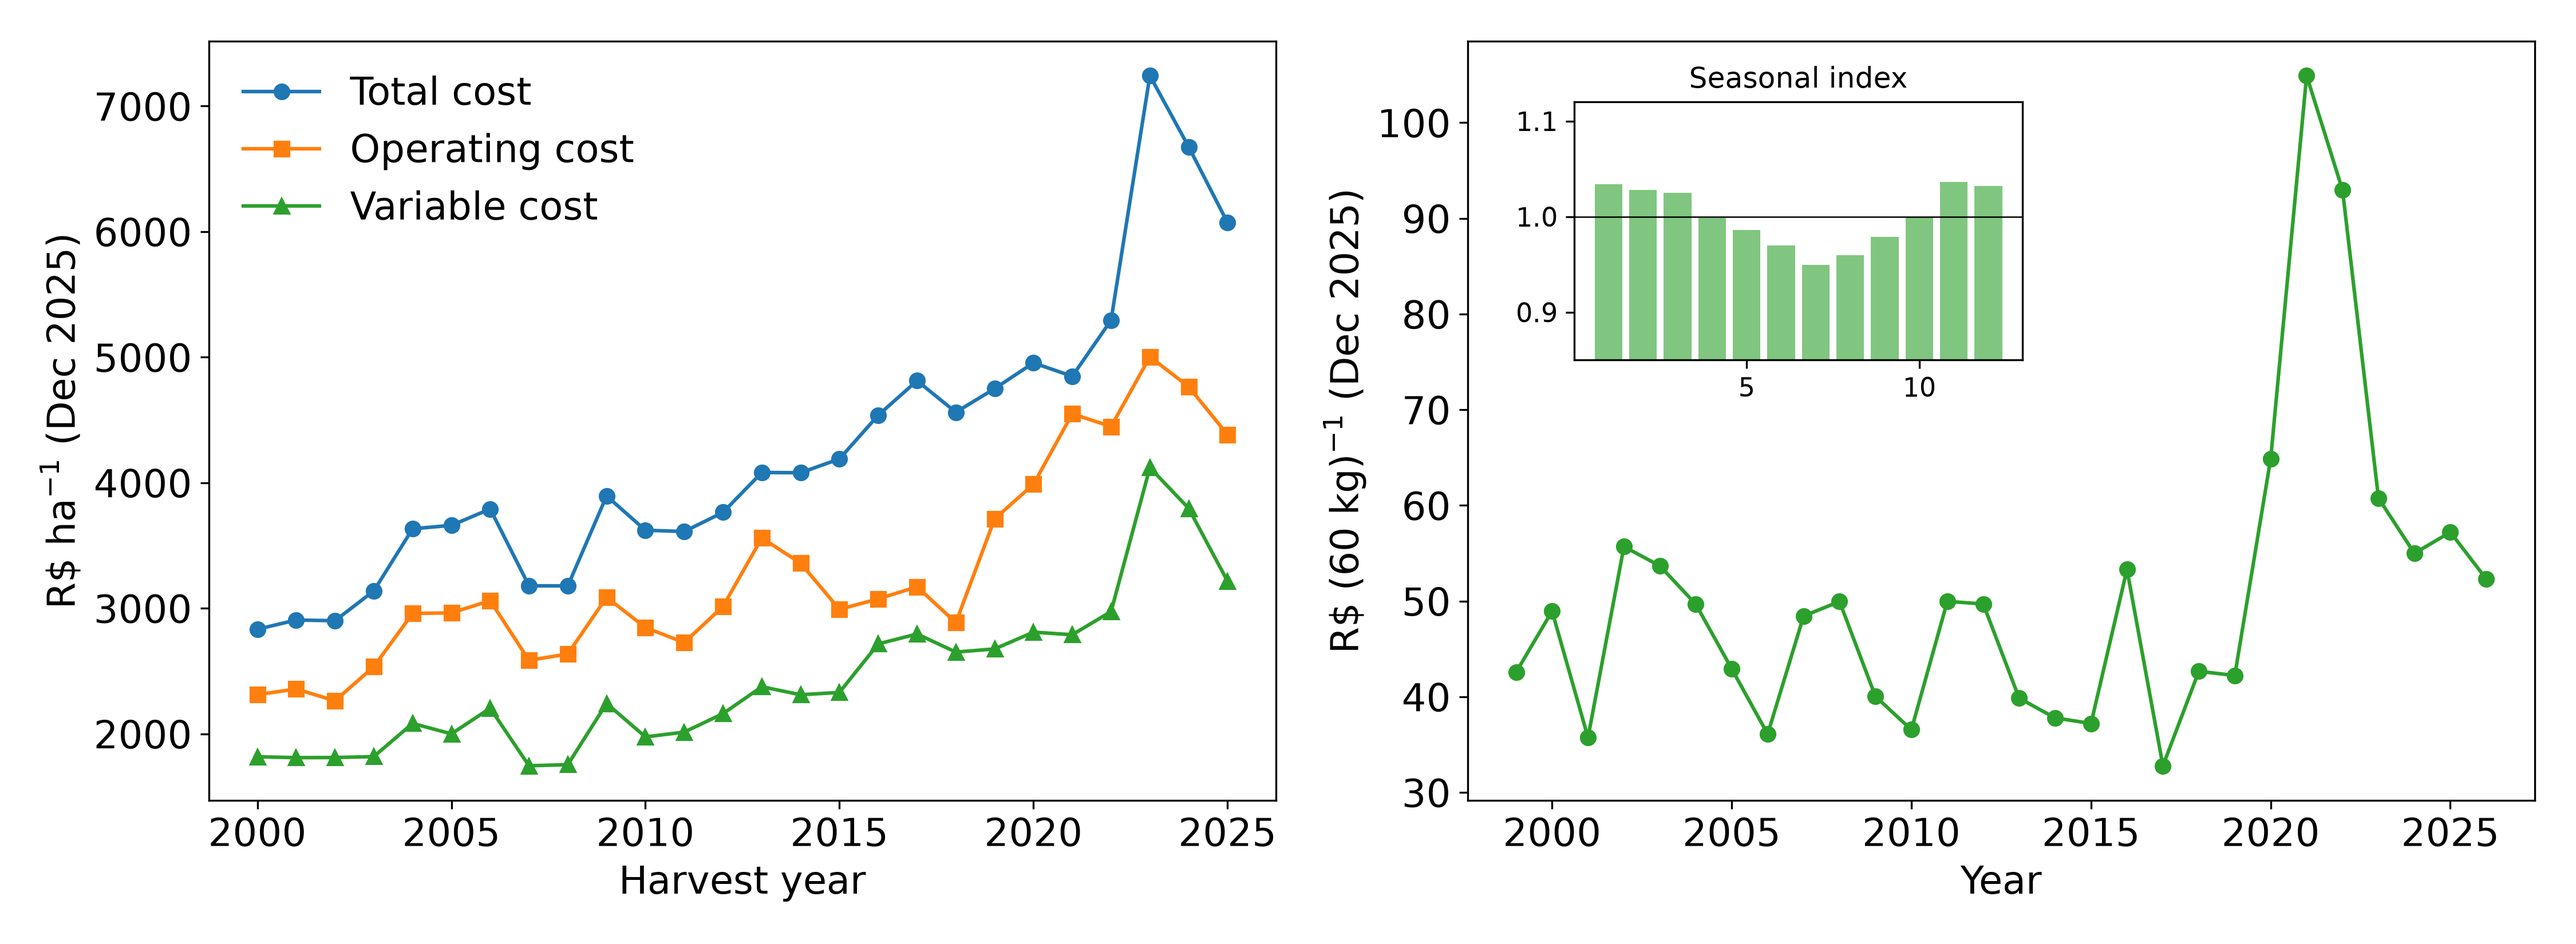
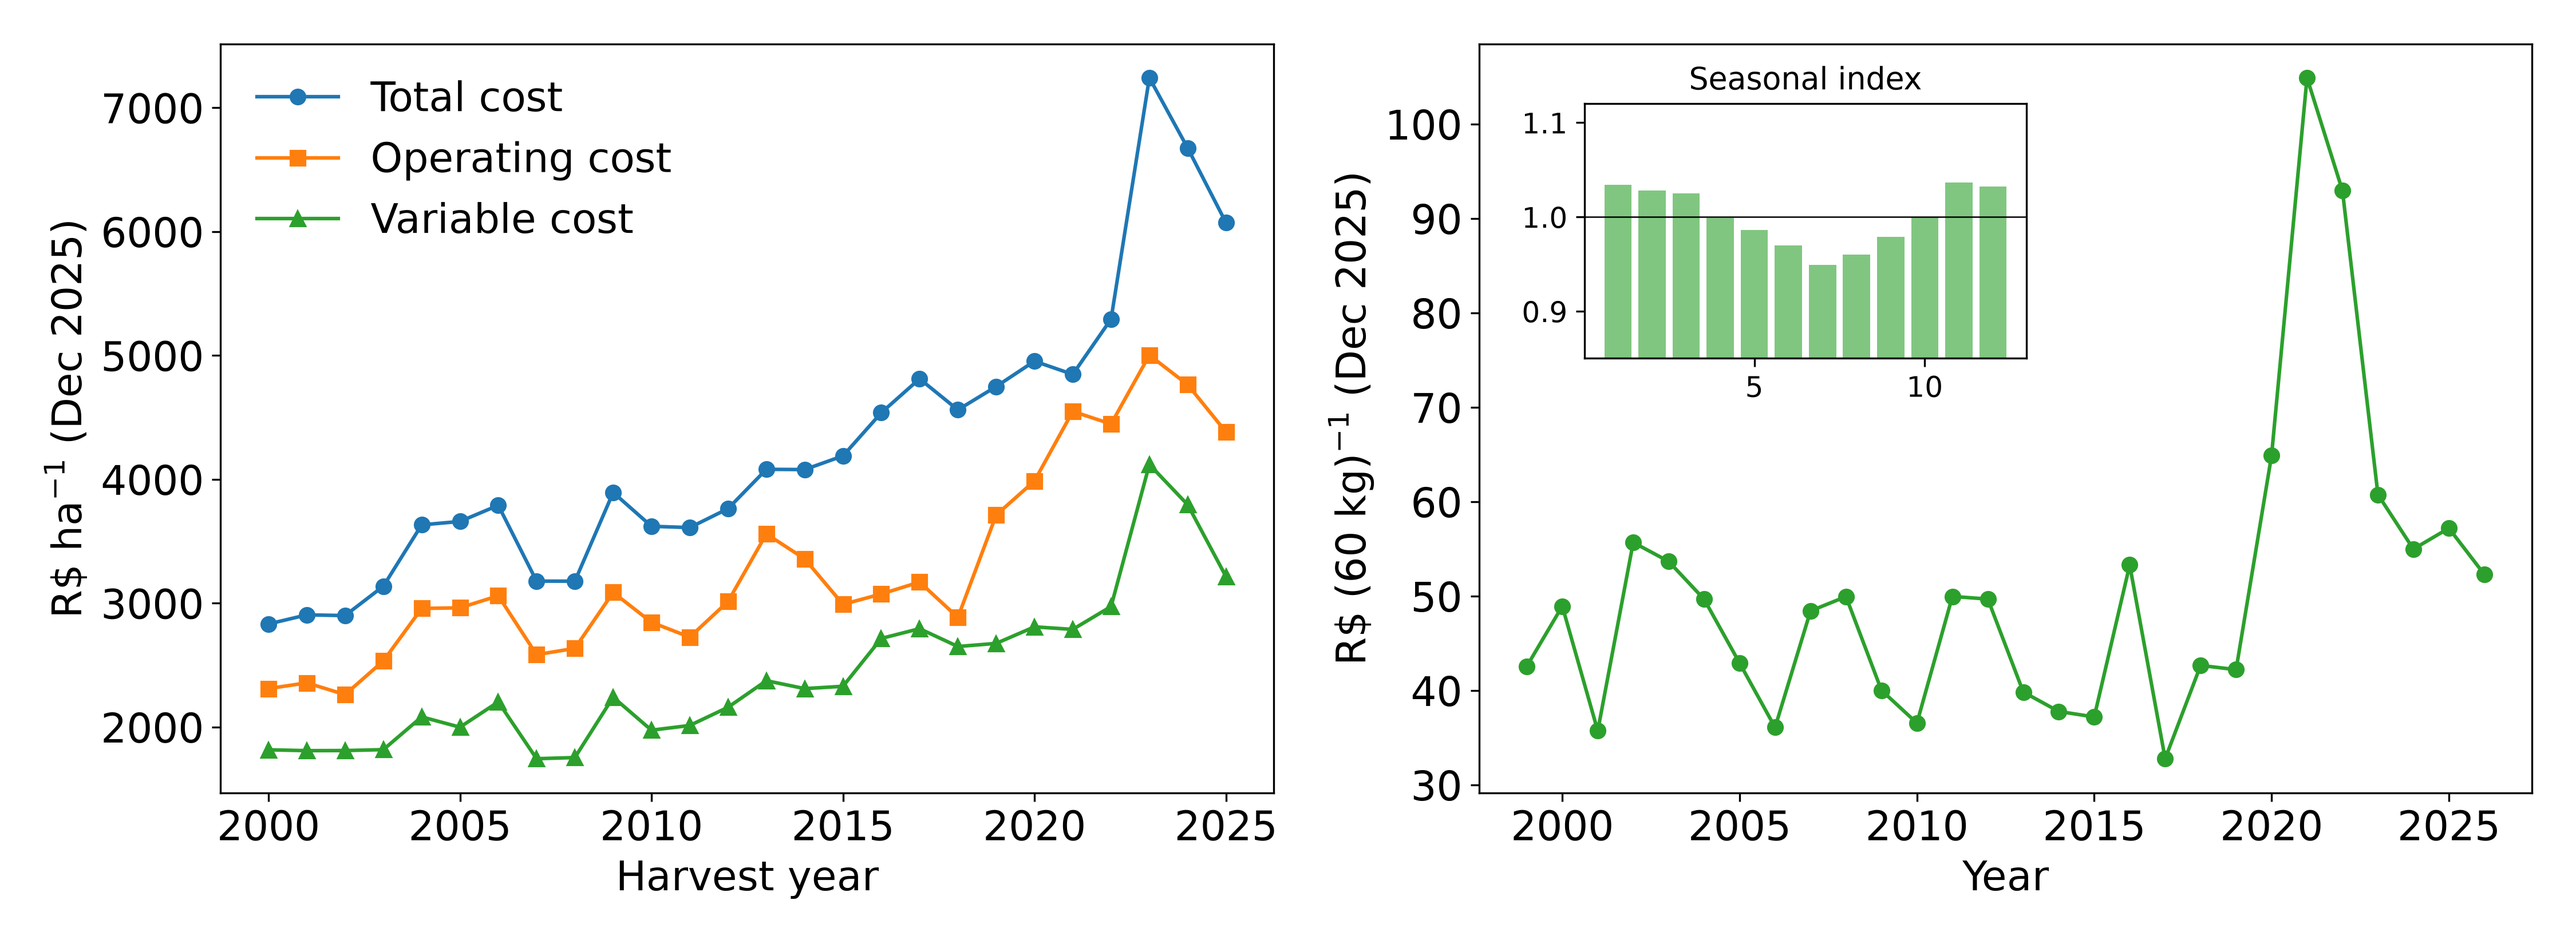
Figures in English with larger text for the AgSy submission
- All figure text 1 pt larger (font.size base, explicit fontsize values and
  map titles in mapas.py)
- Portuguese acronyms replaced in figure labels: ISNA -> WRSI, MZA -> AEZ,
  PA/PPf -> Ya/Yp, DTA -> AWC (data column names unchanged)
- fig_resposta_data_psr and fig_sistema_decisao: all text in black; observed
  (IBGE) bar in orange so its error bar is visible
- No dashes or colons in figure titles
- fig_framework.png replaced by the author's redrawn version

Results unchanged: all notebooks re-run in an isolated copy and every result
file compared; only label text differs in heat_observed_fixed_effects.csv
and shap_mesorregiao.csv.

diff --git a/notebooks/mapas.py b/notebooks/mapas.py
@@ -49,7 +49,7 @@ def mapa(ax, valores, cmap="viridis", vmin=None, vmax=None, titulo=None, categor
     ax.set_aspect("equal")
     ax.axis("off")
     if titulo:
-        ax.set_title(titulo, fontsize=15)
+        ax.set_title(titulo, fontsize=16)
     if categorias is None:
         return plt.cm.ScalarMappable(norm=norma, cmap=cm)
     return None
